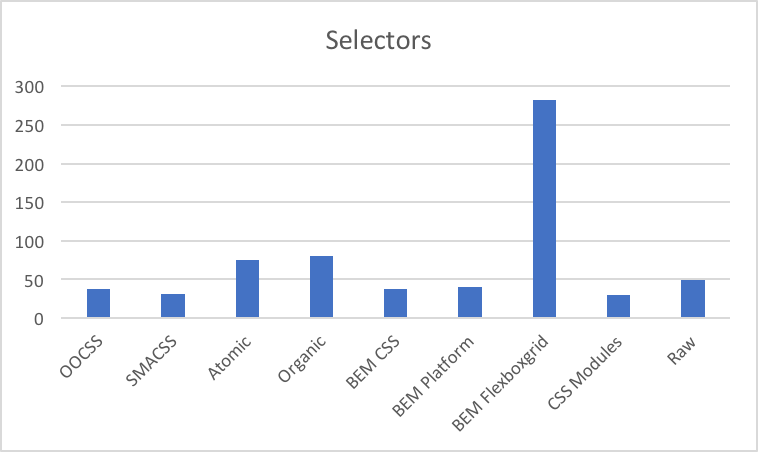
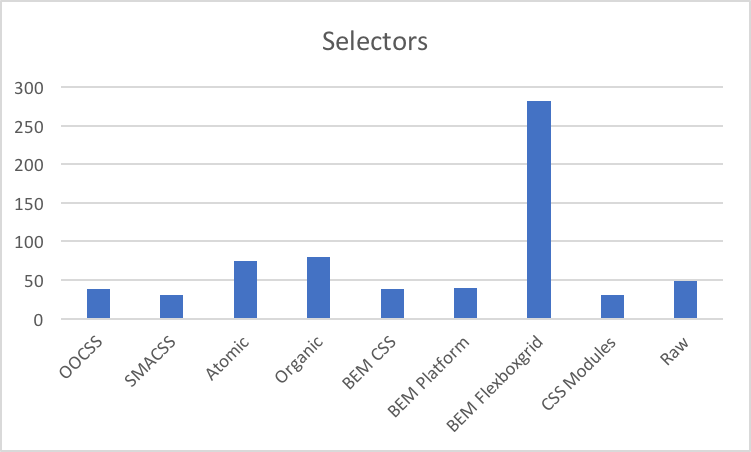
Updated Statistics.md

diff --git a/STATISTICS.md b/STATISTICS.md
@@ -13,45 +13,45 @@ Here a statistics for each of implementation/example. Also available as `.xlsx` 
 <br />
 ### Number of lines
 
-|Implementation|HTML|CSS|
+|Implementation|HTML|CSS|Total
 ------------ | ------------- | -------------
-|OOCSS|98|195|
-|SMACSS|108|180|
-|Atomic|104|221|
-|Organic|104|241|
-|BEM CSS|104|181|
-|BEM Flexboxgrid|108|707|
-|BEM Flexboxgrid (Clear)|108|152|
-|CSS Modules|124|175|
-|Raw|78|210|
+|OOCSS|101|232|333
+|SMACSS|111|219|330
+|Atomic|219|224|332
+|Organic|108|187|295
+|BEM CSS|117|244|361
+|BEM Platform|95|250|345
+|BEM Flexboxgrid|117|714|831
+|CSS Modules|129|201|330
+|Raw|82|241|323
 
 #### File size
 
-|Implementation|HTML|CSS|
+|Implementation|HTML|CSS|Total
 ------------ | ------------- | -------------
-|OOCSS|4.7 KB|2.32 KB|
-|SMACSS|5.5 KB|2.373 KB|
-|Atomic|6.49 KB|2.7 KB|
-|Organic|4.85 KB|3.57 KB|
-|BEM CSS|4.91 KB|2.4 KB|
-|BEM Flexboxgrid|5.21 KB|42.6 KB|
-|BEM Flexboxgrid (Clear)|5.21 KB|2.96 KB|
-|CSS Modules|4.1 KB|2.45 KB|
-|Raw|3.89 KB|2.57 KB|
+|OOCSS|4.92 KB|2.22 KB|7.14 KB
+|SMACSS|5.88 KB|2.269 KB|8.149 KB
+|Atomic|6.83 KB|12.5 KB|19.33 KB
+|Organic|5.09 KB|3.69 KB|8.78 KB
+|BEM CSS|5.68 KB|2.55 KB|8.23 KB
+|BEM Platform|4.83 KB|2.79 KB|7.62 KB
+|BEM Flexboxgrid|5.87 KB|42.6 KB|48.47 KB
+|CSS Modules|4.27 KB|2.51 KB|6.78 KB
+|Raw|4.11 KB|2.53 KB|6.64 KB
 
 ### CSS statistics
 
 |Implementation|Selectors|Declarations|Rules|S/R|D/R|
 ------------ | ------------- | ------------- | ------------- | ------------- | -------------
-|OOCSS|37|91|34|1.1|2.7|
-|SMACSS|30|91|30|1.0|2.56|
-|Atomic|74|78|71|1.0|1.1|
-|Organic|79|93|54|1.5|1.7|
-|BEM CSS|29|94|29|1.0|3.2|
-|BEM Flexboxgrid|276|395|243|1.1|1.6|
-|BEM Flexboxgrid (Clear)|45|101|37|1.2|2.7|
-|CSS Modules|29|94|29|1.0|3.2|
-|Raw|48|85|43|1.1|2.0|
+|OOCSS|38|92|35|1.1|2.6
+|SMACSS|31|92|31|1.0|2.54
+|Atomic|75|80|72|1.0|1.1
+|Organic|80|94|55|1.5|1.7
+|BEM CSS|38|96|38|1.0|2.5
+|BEM Platform|40|103|40|1.0|2.6
+|BEM Flexboxgrid|282|394|249|1.1|1.6
+|CSS Modules|30|95|30|1.0|3.2
+|Raw|49|86|44|1.1|2.0
 
 
 ## Graphics statistics
